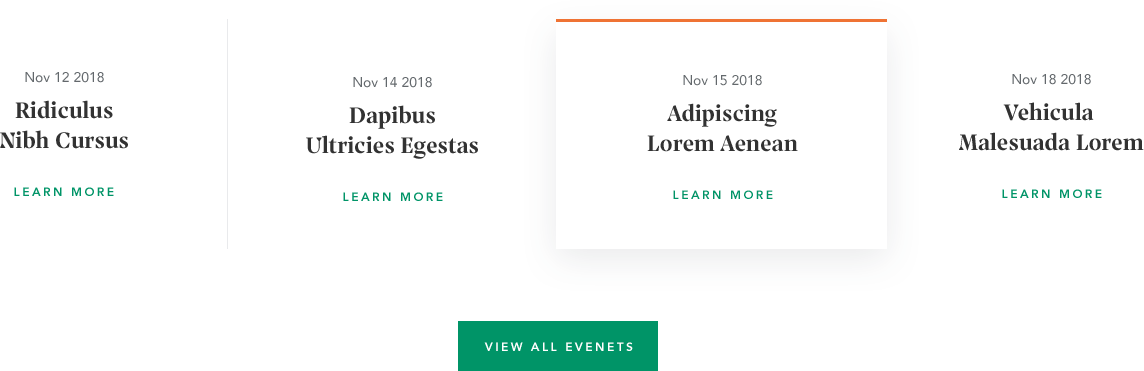
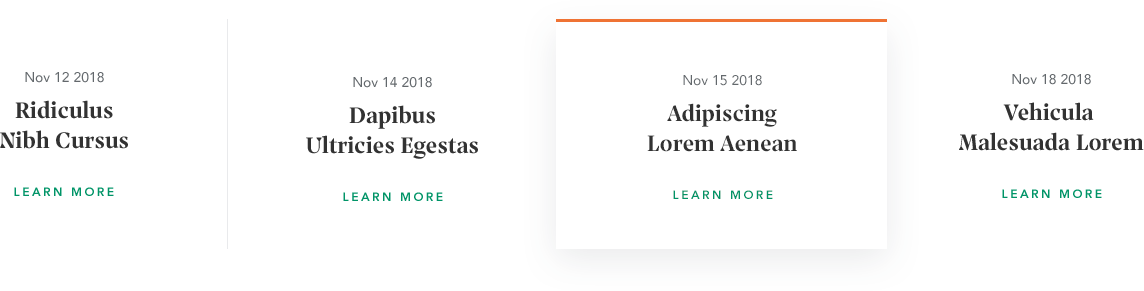
made site pixel pefect

diff --git a/_assets_/css/layout.css b/_assets_/css/layout.css
@@ -14,10 +14,6 @@
 
 -----------------------------------------*/
 @font-face {
-	font-family: 'Avenir-Black';
-	src: url(../fonts/Avenir/Avenir-Black.otf);
-}
-@font-face {
 	font-family: 'Avenir-Heavy';
 	src: url(../fonts/Avenir/Avenir-Heavy.otf);
 }
@@ -126,7 +122,7 @@ button,
 input[type="submit"],
 input[type="reset"],
 input[type="button"],
-.btn{padding:10px 20px;background:#008554;color:#fff!important;border:0;border-radius:0;display:inline-block;font-size:12px;font-weight:900!important;text-decoration:none;cursor:pointer;line-height:normal;vertical-align:top;font-family:sans-serif;text-transform:uppercase;transition:background .3s}
+.btn{padding:10px 20px;background:#008554;color:#fff!important;border:0;border-radius:0;display:inline-block;font-size:12px;font-weight:900!important;text-decoration:none;cursor:pointer;line-height:normal;vertical-align:top;font-family:'Avenir-Heavy', 'sans-serif';text-transform:uppercase;transition:background .3s;letter-spacing: 0.2em}
 .button:hover,
 a.button:hover,
 button:hover,
@@ -268,11 +264,11 @@ header .right-nav {float: right;}
 #quick-links .owl-next {left: unset; right: -15px;}
 
 /*--------------- #vacation ---------------*/
-#vacation {background-color: #fff; padding: 102px 0;}
+#vacation {background-color: #fff; padding: 106px 0 11px;}
 #vacation-content {float: left;}
-#vacation h2 {font-family: 'Prospectus-Bold'; font-size: 48px; text-transform: capitalize; margin: 0; padding: 0;}
-#vacation p {font-size: 16px; line-height: 24px; width: 285px; margin: 10px 0 0;}
-#vacation .btn {font-family: 'Avenir-Heavy'; font-size: 12px; background-color: #008554; float: right; width: 150px; line-height: 30px; margin-top: 18px; letter-spacing: 0.2em;}
+#vacation h2 {font-family: 'Prospectus-Bld'; font-size: 48px; text-transform: capitalize; margin: 0; padding: 0;}
+#vacation p {font-size: 16px; line-height: 24px; width: 285px; margin: 6px 0 0;}
+#vacation .btn {font-family: 'Avenir-Heavy'; font-size: 12px; background-color: #008554; float: right; width: 150px; line-height: 30px; margin-top: 14px; letter-spacing: 0.2em;}
 #vacation-gallery {position: relative; top: -91px;}
 .vacation-gallery-col{float:left;margin-right:1.338235294117645%;position:relative}
 .vacation-gallery-col:first-of-type{width:9.352941176470589%;top:204px;}
@@ -302,6 +298,7 @@ header .right-nav {float: right;}
 /*--------------- #events ---------------*/
 #events {padding: 104px 0 120px; text-align: center;}
 #events h2 {font-family: 'Prospectus-Bld'; font-size: 48px; line-height: 70px; text-transform: capitalize; margin: 0 0 51px;}
+#events .btn {margin-top: 29px; line-height: 30px; width: 200px;}
 
 
 /*--------------- #footer-links ---------------*/

diff --git a/index.php b/index.php
@@ -189,6 +189,7 @@
 		<div class="container">
 			<h2>latest events</h2>
 			<img src="./_assets_/images/events.png" alt="Events Image">
+			<a href="./" class="btn">view all events</a>
 		</div><!-- /.container -->
 	</section><!-- /#events -->
 
